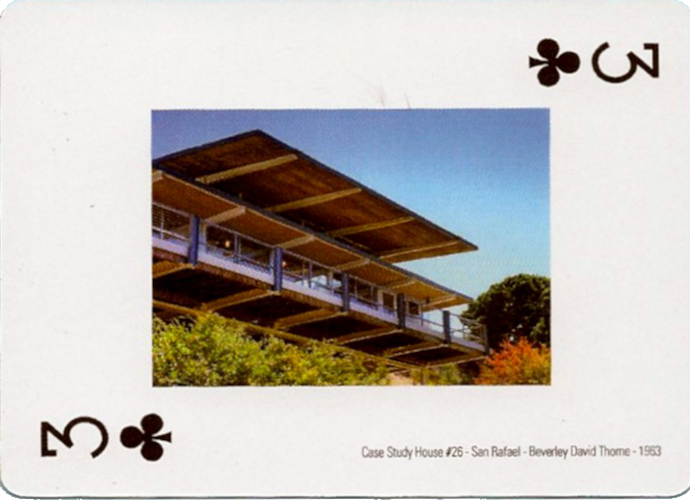
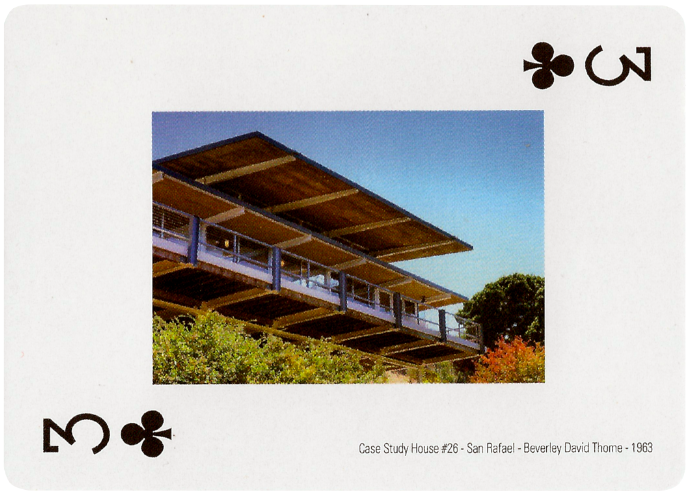
higher res pictures, case study caption and responsive layout tweaks

diff --git a/index.html b/index.html
@@ -1,2 +1,2 @@
 <!DOCTYPE html><html lang="en"></html><meta name="viewport" content="width=device-width, initial-scale=1.0"/><head><title>Bay Area Modern Cards</title><meta charset="UTF-8"/><meta name="viewport" content="width=device-width, initial-scale=1"/><link rel="shortcut icon" href="assets/img/favicon.ico"/><link rel="stylesheet" href="assets/css/main.css"/><script src="https://use.fontawesome.com/107afcc669.js"></script></head><body><div class="header"><h1> 
-Bay <br/>Area <br/>Modern</h1><div class="navbar"><ul class="nav"><li class="big"><a href="#buy">Buy</a></li><li class="big"><a href="#exploreDeck">Explore</a></li><li class="big"><a href="mailto:info@calmodbooks.com">Contact</a></li><li class="big"><a href="#stores">Stores</a></li></ul></div></div><section class="buyNow"><a id="buy"></a><div class="col-1"><img src="/assets/img/deck_noBg.png"/></div><div class="col-2"><div class="description"><div id="text"><p>How well do you know Bay Area Modernism? </p><p>Test your knowledge, or play a game of Rummy, with this deck of 52 architecture cards, each featuring a modern building in the San Francisco Bay Area. </p><p>Each card suit showcases 13 buildings, which could be used as the foundation for a self-guided architecture tour. </p></div><button>Buy Now</button></div></div></section><section class="quote"><div class="quote-bg"><div class="quote-box"><p>“From International to Organic, from Googie to Brutalism, explore some of the unique architecture of the San Francisco Bay Area.”</p></div></div></section><section class="exploreDeck"><a id="exploreDeck"></a><h2>Explore the Deck</h2><div class="cards-wrap"><div id="card1" class="card-hor"><div id="active" class="caption"><p>Distinctive in design, the <span>San Jose Center for the Performing Arts (1972)</span> represents an architectural “who’s who” of some of the brightest minds of Taliesin Associates, Frank Lloyd Wright’s atelier.  An excellent example of organic modernism, both exterior and interior spaces are characterized by spiral ramps, decorative arches and spheres.</p></div><img src="/assets/img/cards/sjpa.png"/></div><div id="card2" class="card-vert"><div class="caption standard"><p>San Francisco’s iconic <span>Transamerica Pyramid </span>stands an impressive 853 feet.  Designed by architect William Pereira, the idea behind the building’s shape was to allow for natural light to hit the city streets below. The building, which is covered in white quartz, dates to 1972.</p></div><img src="/assets/img/cards/pyramid.png"/></div><div id="card3" class="card-vert"><div class="caption standard"><p><span>The Paul Masson Champagne Cellars</span> and visitor’s center opened in Saratoga in 1959. Designed by John Savage Bolles, the ultramodern winery inspired a traveling photographic exhibition, featuring the work of Ansel Adams.  A giant metal sculpture by Gurdon Woods called "Effervescence of Champagne" once stood at the entrance.</p></div><img src="/assets/img/cards/paulMason.png"/></div><div id="card4" class="card-hor"><div class="caption standard"><p><span>The College of San Mateo</span>, designed by architect John Carl Warnecke, opened in 1963. Buildings were constructed using a combination of concrete, glass, and steel.  The campus’ visual centerpiece was, and continues to be, its library.</p></div><img src="/assets/img/cards/csm.png"/></div><div id="card5" class="card-hor"><div class="caption standard"><p> </p></div><img src="/assets/img/cards/caseStudyHouse.png"/></div><div id="card6" class="card-vert"><div class="caption standard"><p>San Jose’s award-winning <span>IBM campus</span>, designed by architect John Savage Bolles, opened in 1958.  Buildings were accented with brick and multicolored tiles, the tile pattern said to mimic an IBM punch card.  The centerpiece in the IBM campus’ art collection was the Hydro Gyro, a giant kinetic metal sculpture designed by the artist Bob Howard.</p></div><img src="/assets/img/cards/ibm.png"/></div></div></section><section class="stores"><a id="stores"></a><div class="box"><div class="col-1"><h2>Retailers</h2><p class="store"><span>SFMOMA Gift Shop</span><br/>151 3rd St<br/>San Francisco, CA 94103 </p><p class="store"><span>William Stout Architectural Book</span><br/>804 Montgomery St<br/>San Francisco, CA 94133</p><p class="store"><span>Antiques Colony </span><br/>1881 W San Carlos St<br/>San Jose, CA 95128</p></div><div class="col-2"><img src="/assets/img/bottom1.jpg"/><img src="/assets/img/bottom4.jpg"/><img src="/assets/img/bottom3.jpg"/><img src="/assets/img/bottom2.jpg"/></div></div></section><footer><div class="small copyright"><p>Copyright Calmodbooks 2016</p></div><div class="social"><ul class="social-list"><li><a href="mailto:info@calmodbooks.com"><i class="fa fa-envelope"></i><span class="hide">Email</span></a></li><li><a> <i class="fa fa-facebook-square"></i><span class="hide">Facebook</span></a></li><li><a><i class="fa fa-flickr"></i><span class="hide">Flickr</span></a></li></ul></div></footer><script src="https://code.jquery.com/jquery-2.2.3.min.js"></script><script src="/assets/js/functions.js"></script></body>
+Bay <br/>Area <br/>Modern</h1><div class="navbar"><ul class="nav"><li class="big"><a href="#buy">Buy</a></li><li class="big"><a href="#exploreDeck">Explore</a></li><li class="big"><a href="mailto:info@calmodbooks.com">Contact</a></li><li class="big"><a href="#stores">Stores</a></li></ul></div></div><section class="buyNow"><a id="buy"></a><div class="col-1"><img src="/assets/img/deck_noBg.png"/></div><div class="col-2"><div class="description"><div id="text"><p>How well do you know Bay Area Modernism? </p><p>Test your knowledge, or play a game of Rummy, with this deck of 52 architecture cards, each featuring a modern building in the San Francisco Bay Area. </p><p>Each card suit showcases 13 buildings, which could be used as the foundation for a self-guided architecture tour. </p></div><button>Buy Now</button></div></div></section><section class="quote"><div class="quote-bg"><div class="quote-box"><p>“From International to Organic, from Googie to Brutalism, explore some of the unique architecture of the San Francisco Bay Area.”</p></div></div></section><section class="exploreDeck"><a id="exploreDeck"></a><h2>Explore the Deck</h2><div class="cards-wrap"><div id="card1" class="card-hor"><div id="active" class="caption"><p>Distinctive in design, the <span>San Jose Center for the Performing Arts (1972)</span> represents an architectural “who’s who” of some of the brightest minds of Taliesin Associates, Frank Lloyd Wright’s atelier.  An excellent example of organic modernism, both exterior and interior spaces are characterized by spiral ramps, decorative arches and spheres.</p></div><img src="/assets/img/cards/sjpa.png"/></div><div id="card2" class="card-vert"><div class="caption standard"><p>San Francisco’s iconic <span>Transamerica Pyramid </span>stands an impressive 853 feet.  Designed by architect William Pereira, the idea behind the building’s shape was to allow for natural light to hit the city streets below. The building, which is covered in white quartz, dates to 1972.</p></div><img src="/assets/img/cards/pyramid.png"/></div><div id="card3" class="card-vert"><div class="caption standard"><p><span>The Paul Masson Champagne Cellars</span> and visitor’s center opened in Saratoga in 1959. Designed by John Savage Bolles, the ultramodern winery inspired a traveling photographic exhibition, featuring the work of Ansel Adams.  A giant metal sculpture by Gurdon Woods called "Effervescence of Champagne" once stood at the entrance.</p></div><img src="/assets/img/cards/paulMason.png"/></div><div id="card4" class="card-hor"><div class="caption standard"><p><span>The College of San Mateo</span>, designed by architect John Carl Warnecke, opened in 1963. Buildings were constructed using a combination of concrete, glass, and steel.  The campus’ visual centerpiece was, and continues to be, its library.</p></div><img src="/assets/img/cards/csm.png"/></div><div id="card5" class="card-hor"><div class="caption standard"><p>Built on a sloping hill in Marin County, <span>Case Study #26 (1962 – 1963)</span> is Northern California’s only Case Study house.  To minimize excavation, architect Beverley David Thorne utilized an innovative design that offsets the main living area from the carport/entry way.  All the major rooms of the home, with the exception of the kitchen, breakfast room, and foyer, offer panoramic views.</p></div><img src="/assets/img/cards/caseStudyHouse.png"/></div><div id="card6" class="card-vert"><div class="caption standard"><p>San Jose’s award-winning <span>IBM campus</span>, designed by architect John Savage Bolles, opened in 1958.  Buildings were accented with brick and multicolored tiles, the tile pattern said to mimic an IBM punch card.  The centerpiece in the IBM campus’ art collection was the Hydro Gyro, a giant kinetic metal sculpture designed by the artist Bob Howard.</p></div><img src="/assets/img/cards/ibm.png"/></div></div></section><section class="stores"><a id="stores"></a><div class="box"><div class="col-1"><h2>Retailers</h2><p class="store"><span>SFMOMA Gift Shop</span><br/>151 3rd St<br/>San Francisco, CA 94103 </p><p class="store"><span>William Stout Architectural Book</span><br/>804 Montgomery St<br/>San Francisco, CA 94133</p><p class="store"><span>Antiques Colony </span><br/>1881 W San Carlos St<br/>San Jose, CA 95128</p></div><div class="col-2"><img src="/assets/img/bottom1.jpg"/><img src="/assets/img/bottom4.jpg"/><img src="/assets/img/bottom3.jpg"/><img src="/assets/img/bottom2.jpg"/></div></div></section><footer><div class="small copyright"><p>Copyright Calmodbooks 2016</p></div><div class="social"><ul class="social-list"><li><a href="mailto:info@calmodbooks.com"><i class="fa fa-envelope"></i><span class="hide">Email</span></a></li><li><a href="https://www.facebook.com/groups/115002571865695/"><i class="fa fa-facebook-square"></i><span class="hide">Facebook</span></a></li><li><a href="https://www.flickr.com/photos/14696209@N02/"><i class="fa fa-flickr"></i><span class="hide">Flickr</span></a></li></ul></div></footer><script src="https://code.jquery.com/jquery-2.2.3.min.js"></script><script src="/assets/js/functions.js"></script></body>

diff --git a/includes/cards.html b/includes/cards.html
@@ -1,1 +1,1 @@
-<section class="exploreDeck"><a id="exploreDeck"></a><h2>Explore the Deck</h2><div class="cards-wrap"><div id="card1" class="card-hor"><div id="active" class="caption"><p>Distinctive in design, the <span>San Jose Center for the Performing Arts (1972)</span> represents an architectural “who’s who” of some of the brightest minds of Taliesin Associates, Frank Lloyd Wright’s atelier.  An excellent example of organic modernism, both exterior and interior spaces are characterized by spiral ramps, decorative arches and spheres.</p></div><img src="/assets/img/cards/sjpa.png"/></div><div id="card2" class="card-vert"><div class="caption standard"><p>San Francisco’s iconic <span>Transamerica Pyramid </span>stands an impressive 853 feet.  Designed by architect William Pereira, the idea behind the building’s shape was to allow for natural light to hit the city streets below. The building, which is covered in white quartz, dates to 1972.</p></div><img src="/assets/img/cards/pyramid.png"/></div><div id="card3" class="card-vert"><div class="caption standard"><p><span>The Paul Masson Champagne Cellars</span> and visitor’s center opened in Saratoga in 1959. Designed by John Savage Bolles, the ultramodern winery inspired a traveling photographic exhibition, featuring the work of Ansel Adams.  A giant metal sculpture by Gurdon Woods called "Effervescence of Champagne" once stood at the entrance.</p></div><img src="/assets/img/cards/paulMason.png"/></div><div id="card4" class="card-hor"><div class="caption standard"><p><span>The College of San Mateo</span>, designed by architect John Carl Warnecke, opened in 1963. Buildings were constructed using a combination of concrete, glass, and steel.  The campus’ visual centerpiece was, and continues to be, its library.</p></div><img src="/assets/img/cards/csm.png"/></div><div id="card5" class="card-hor"><div class="caption standard"><p> </p></div><img src="/assets/img/cards/caseStudyHouse.png"/></div><div id="card6" class="card-vert"><div class="caption standard"><p>San Jose’s award-winning <span>IBM campus</span>, designed by architect John Savage Bolles, opened in 1958.  Buildings were accented with brick and multicolored tiles, the tile pattern said to mimic an IBM punch card.  The centerpiece in the IBM campus’ art collection was the Hydro Gyro, a giant kinetic metal sculpture designed by the artist Bob Howard.</p></div><img src="/assets/img/cards/ibm.png"/></div></div></section>
+<section class="exploreDeck"><a id="exploreDeck"></a><h2>Explore the Deck</h2><div class="cards-wrap"><div id="card1" class="card-hor"><div id="active" class="caption"><p>Distinctive in design, the <span>San Jose Center for the Performing Arts (1972)</span> represents an architectural “who’s who” of some of the brightest minds of Taliesin Associates, Frank Lloyd Wright’s atelier.  An excellent example of organic modernism, both exterior and interior spaces are characterized by spiral ramps, decorative arches and spheres.</p></div><img src="/assets/img/cards/sjpa.png"/></div><div id="card2" class="card-vert"><div class="caption standard"><p>San Francisco’s iconic <span>Transamerica Pyramid </span>stands an impressive 853 feet.  Designed by architect William Pereira, the idea behind the building’s shape was to allow for natural light to hit the city streets below. The building, which is covered in white quartz, dates to 1972.</p></div><img src="/assets/img/cards/pyramid.png"/></div><div id="card3" class="card-vert"><div class="caption standard"><p><span>The Paul Masson Champagne Cellars</span> and visitor’s center opened in Saratoga in 1959. Designed by John Savage Bolles, the ultramodern winery inspired a traveling photographic exhibition, featuring the work of Ansel Adams.  A giant metal sculpture by Gurdon Woods called "Effervescence of Champagne" once stood at the entrance.</p></div><img src="/assets/img/cards/paulMason.png"/></div><div id="card4" class="card-hor"><div class="caption standard"><p><span>The College of San Mateo</span>, designed by architect John Carl Warnecke, opened in 1963. Buildings were constructed using a combination of concrete, glass, and steel.  The campus’ visual centerpiece was, and continues to be, its library.</p></div><img src="/assets/img/cards/csm.png"/></div><div id="card5" class="card-hor"><div class="caption standard"><p>Built on a sloping hill in Marin County, <span>Case Study #26 (1962 – 1963)</span> is Northern California’s only Case Study house.  To minimize excavation, architect Beverley David Thorne utilized an innovative design that offsets the main living area from the carport/entry way.  All the major rooms of the home, with the exception of the kitchen, breakfast room, and foyer, offer panoramic views.</p></div><img src="/assets/img/cards/caseStudyHouse.png"/></div><div id="card6" class="card-vert"><div class="caption standard"><p>San Jose’s award-winning <span>IBM campus</span>, designed by architect John Savage Bolles, opened in 1958.  Buildings were accented with brick and multicolored tiles, the tile pattern said to mimic an IBM punch card.  The centerpiece in the IBM campus’ art collection was the Hydro Gyro, a giant kinetic metal sculpture designed by the artist Bob Howard.</p></div><img src="/assets/img/cards/ibm.png"/></div></div></section>

diff --git a/assets/css/main.css b/assets/css/main.css
@@ -594,11 +594,12 @@ section {
     text-align: center; }
     section .cards-wrap .card-hor,
     section .cards-wrap .card-vert {
-      width: 100%;
+      width: 70%;
       margin: 10px; }
-      section .cards-wrap .card-hor img,
-      section .cards-wrap .card-vert img {
-        width: 90%; }
+    section .cards-wrap .caption {
+      font-size: 14px; }
+    section .cards-wrap .card-vert .caption {
+      padding: 20px 70px; }
     section .cards-wrap #card1 {
       -ms-flex-order: 1;
           order: 1; }
@@ -619,6 +620,25 @@ section {
           order: 66; }
     section .cards-wrap .caption {
       padding: 30px; } }
+
+@media (max-width: 500px) {
+  section .cards-wrap .card-hor,
+  section .cards-wrap .card-vert {
+    width: 80%; }
+  section .cards-wrap .card-vert .caption {
+    padding: 20px 40px; }
+  section .cards-wrap .caption {
+    font-size: 12px; }
+  section .cards-wrap .card-hor .caption {
+    padding: 10px; } }
+
+@media (max-width: 400px) {
+  section .cards-wrap .caption {
+    font-size: 11px; }
+  section .cards-wrap .card-hor .caption {
+    padding: 5px; }
+  section .cards-wrap .card-vert .caption {
+    padding: 10px 30px; } }
 
 section.stores {
   background-color: #FFFFFF;

diff --git a/includes/footer.html b/includes/footer.html
@@ -1,1 +1,1 @@
-<footer><div class="small copyright"><p>Copyright Calmodbooks 2016</p></div><div class="social"><ul class="social-list"><li><a href="mailto:info@calmodbooks.com"><i class="fa fa-envelope"></i><span class="hide">Email</span></a></li><li><a> <i class="fa fa-facebook-square"></i><span class="hide">Facebook</span></a></li><li><a><i class="fa fa-flickr"></i><span class="hide">Flickr</span></a></li></ul></div></footer>
+<footer><div class="small copyright"><p>Copyright Calmodbooks 2016</p></div><div class="social"><ul class="social-list"><li><a href="mailto:info@calmodbooks.com"><i class="fa fa-envelope"></i><span class="hide">Email</span></a></li><li><a href="https://www.facebook.com/groups/115002571865695/"><i class="fa fa-facebook-square"></i><span class="hide">Facebook</span></a></li><li><a href="https://www.flickr.com/photos/14696209@N02/"><i class="fa fa-flickr"></i><span class="hide">Flickr</span></a></li></ul></div></footer>

diff --git a/assets/js/functions.js b/assets/js/functions.js
@@ -6,7 +6,7 @@ $(window).on('scroll', function(){
   captionPop();
 });
 //removes overlay, so standard animation cna kick in
-  $('.standard, #active').on('mouseenter', function(){
+  $('.standard, #active').on('mouseenter touch', function(){
     $('#active').removeClass('show');
   });
   
